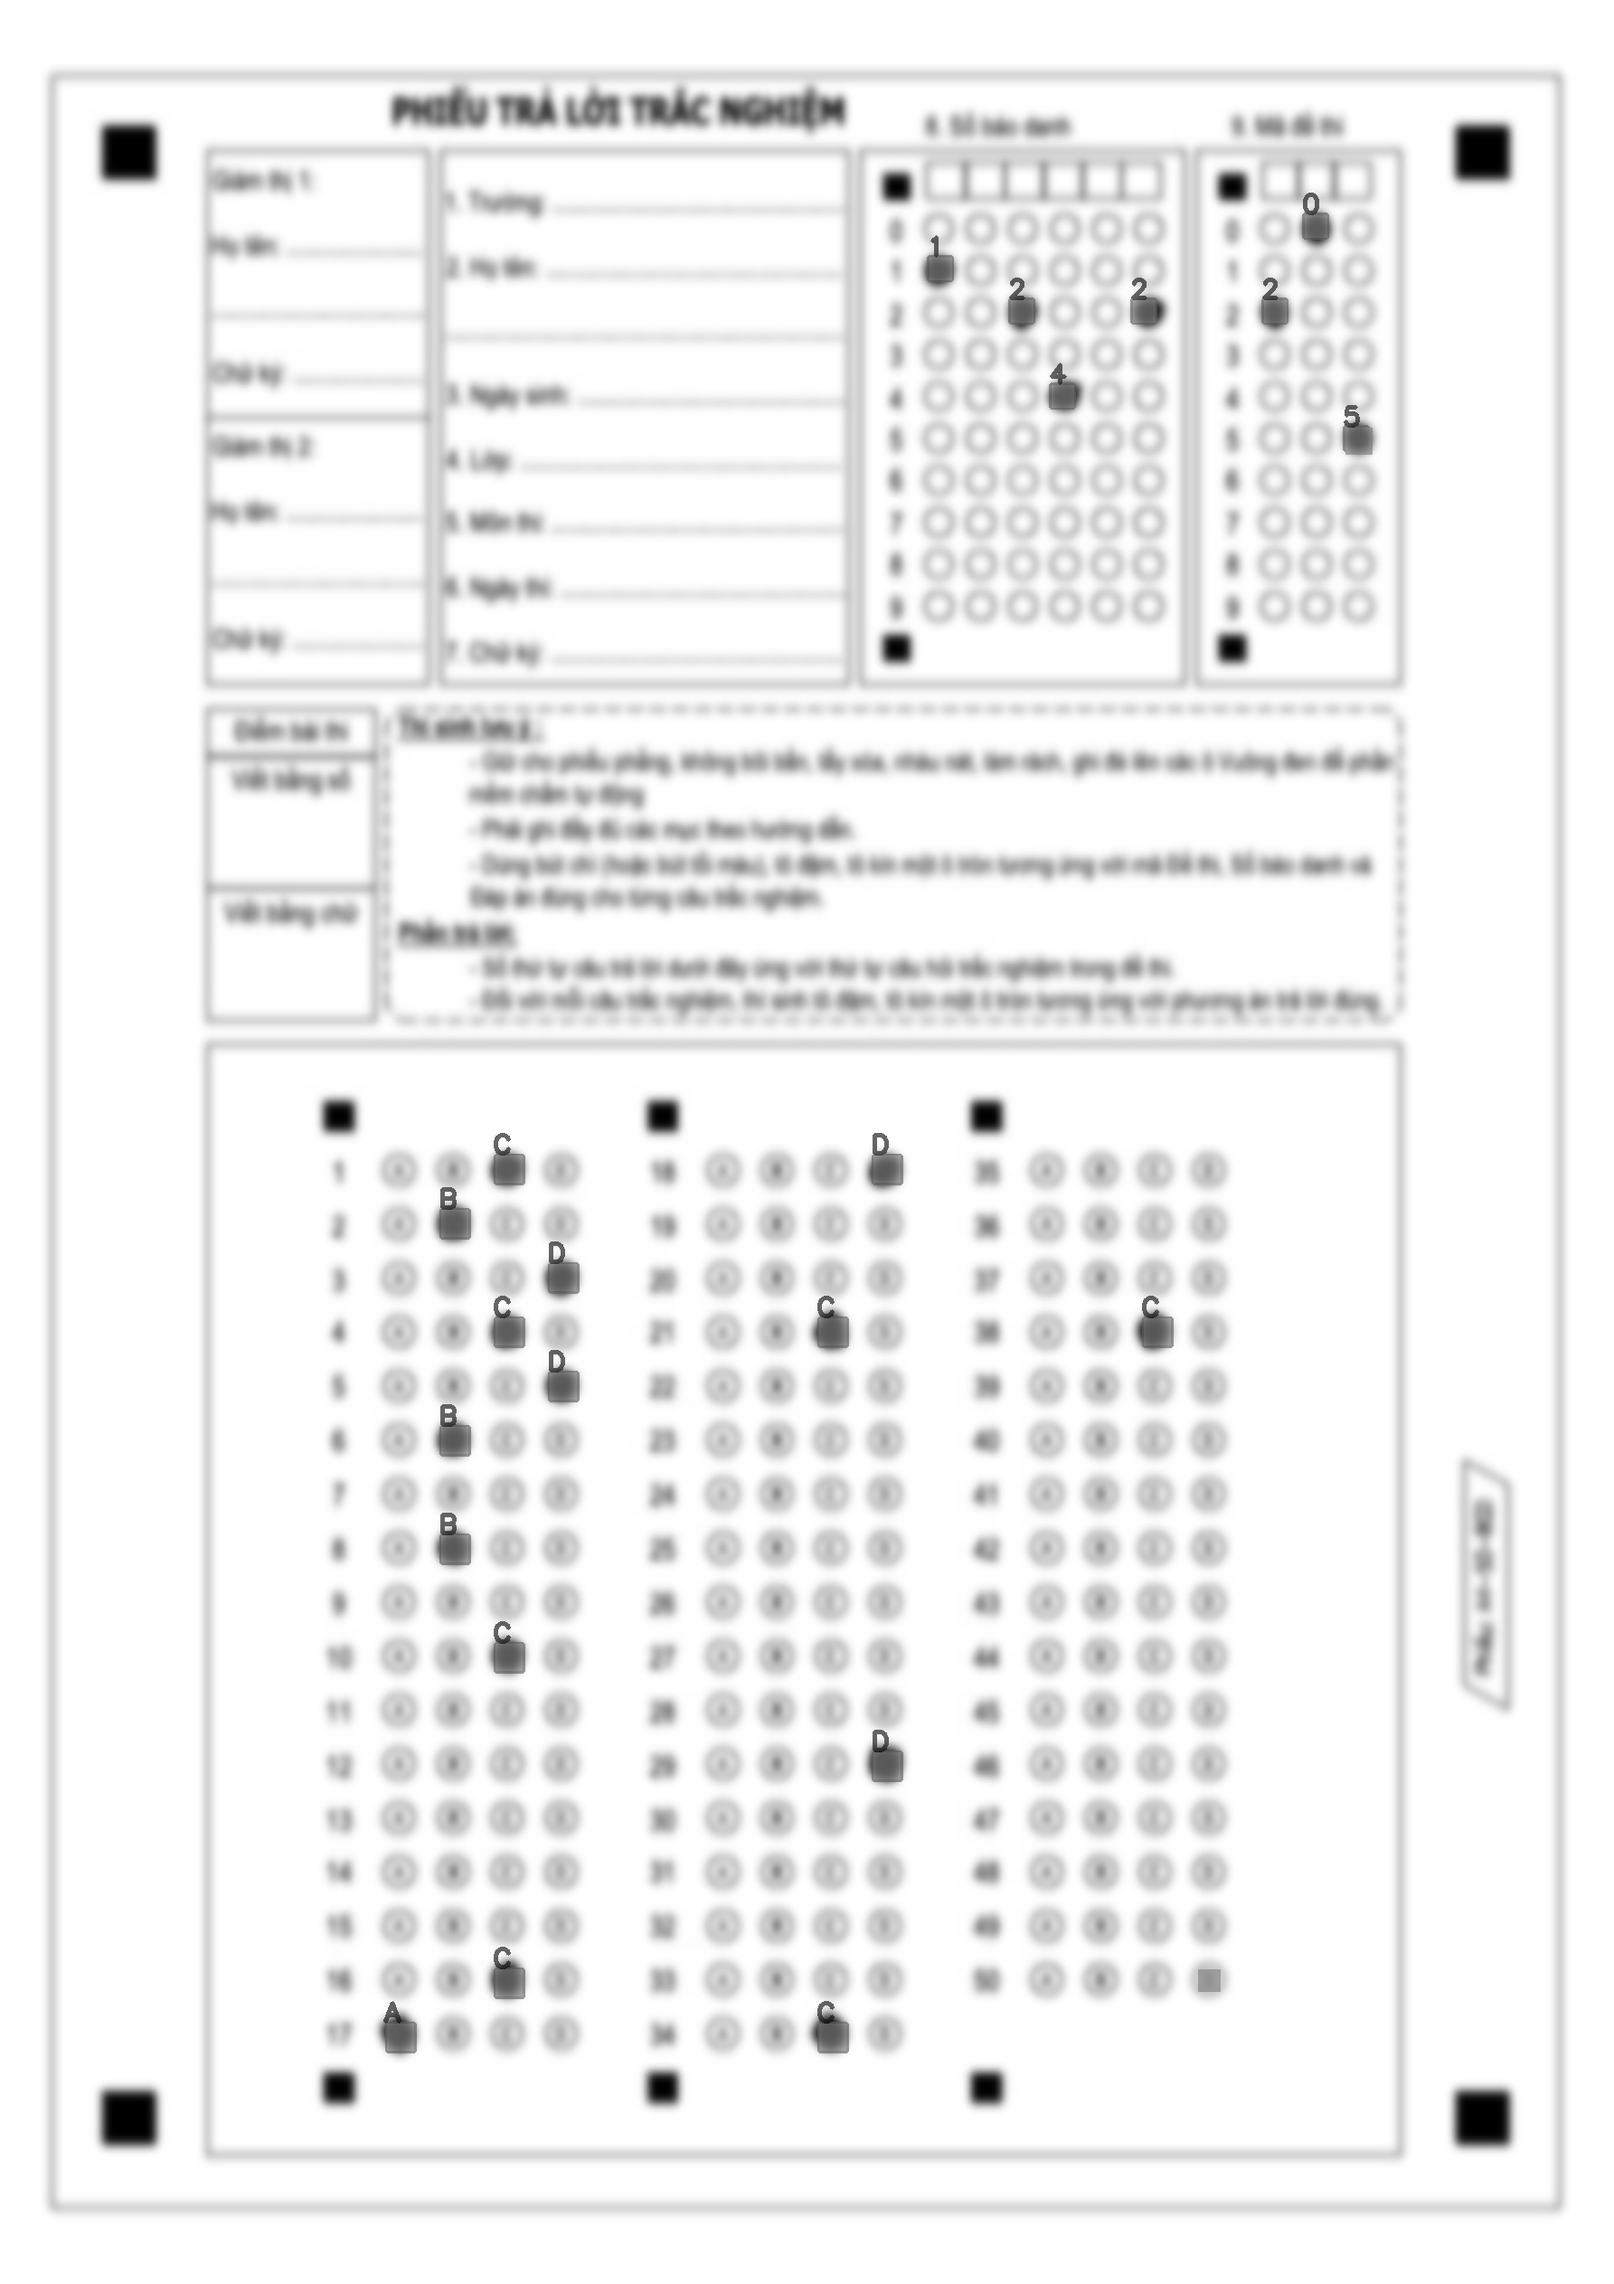
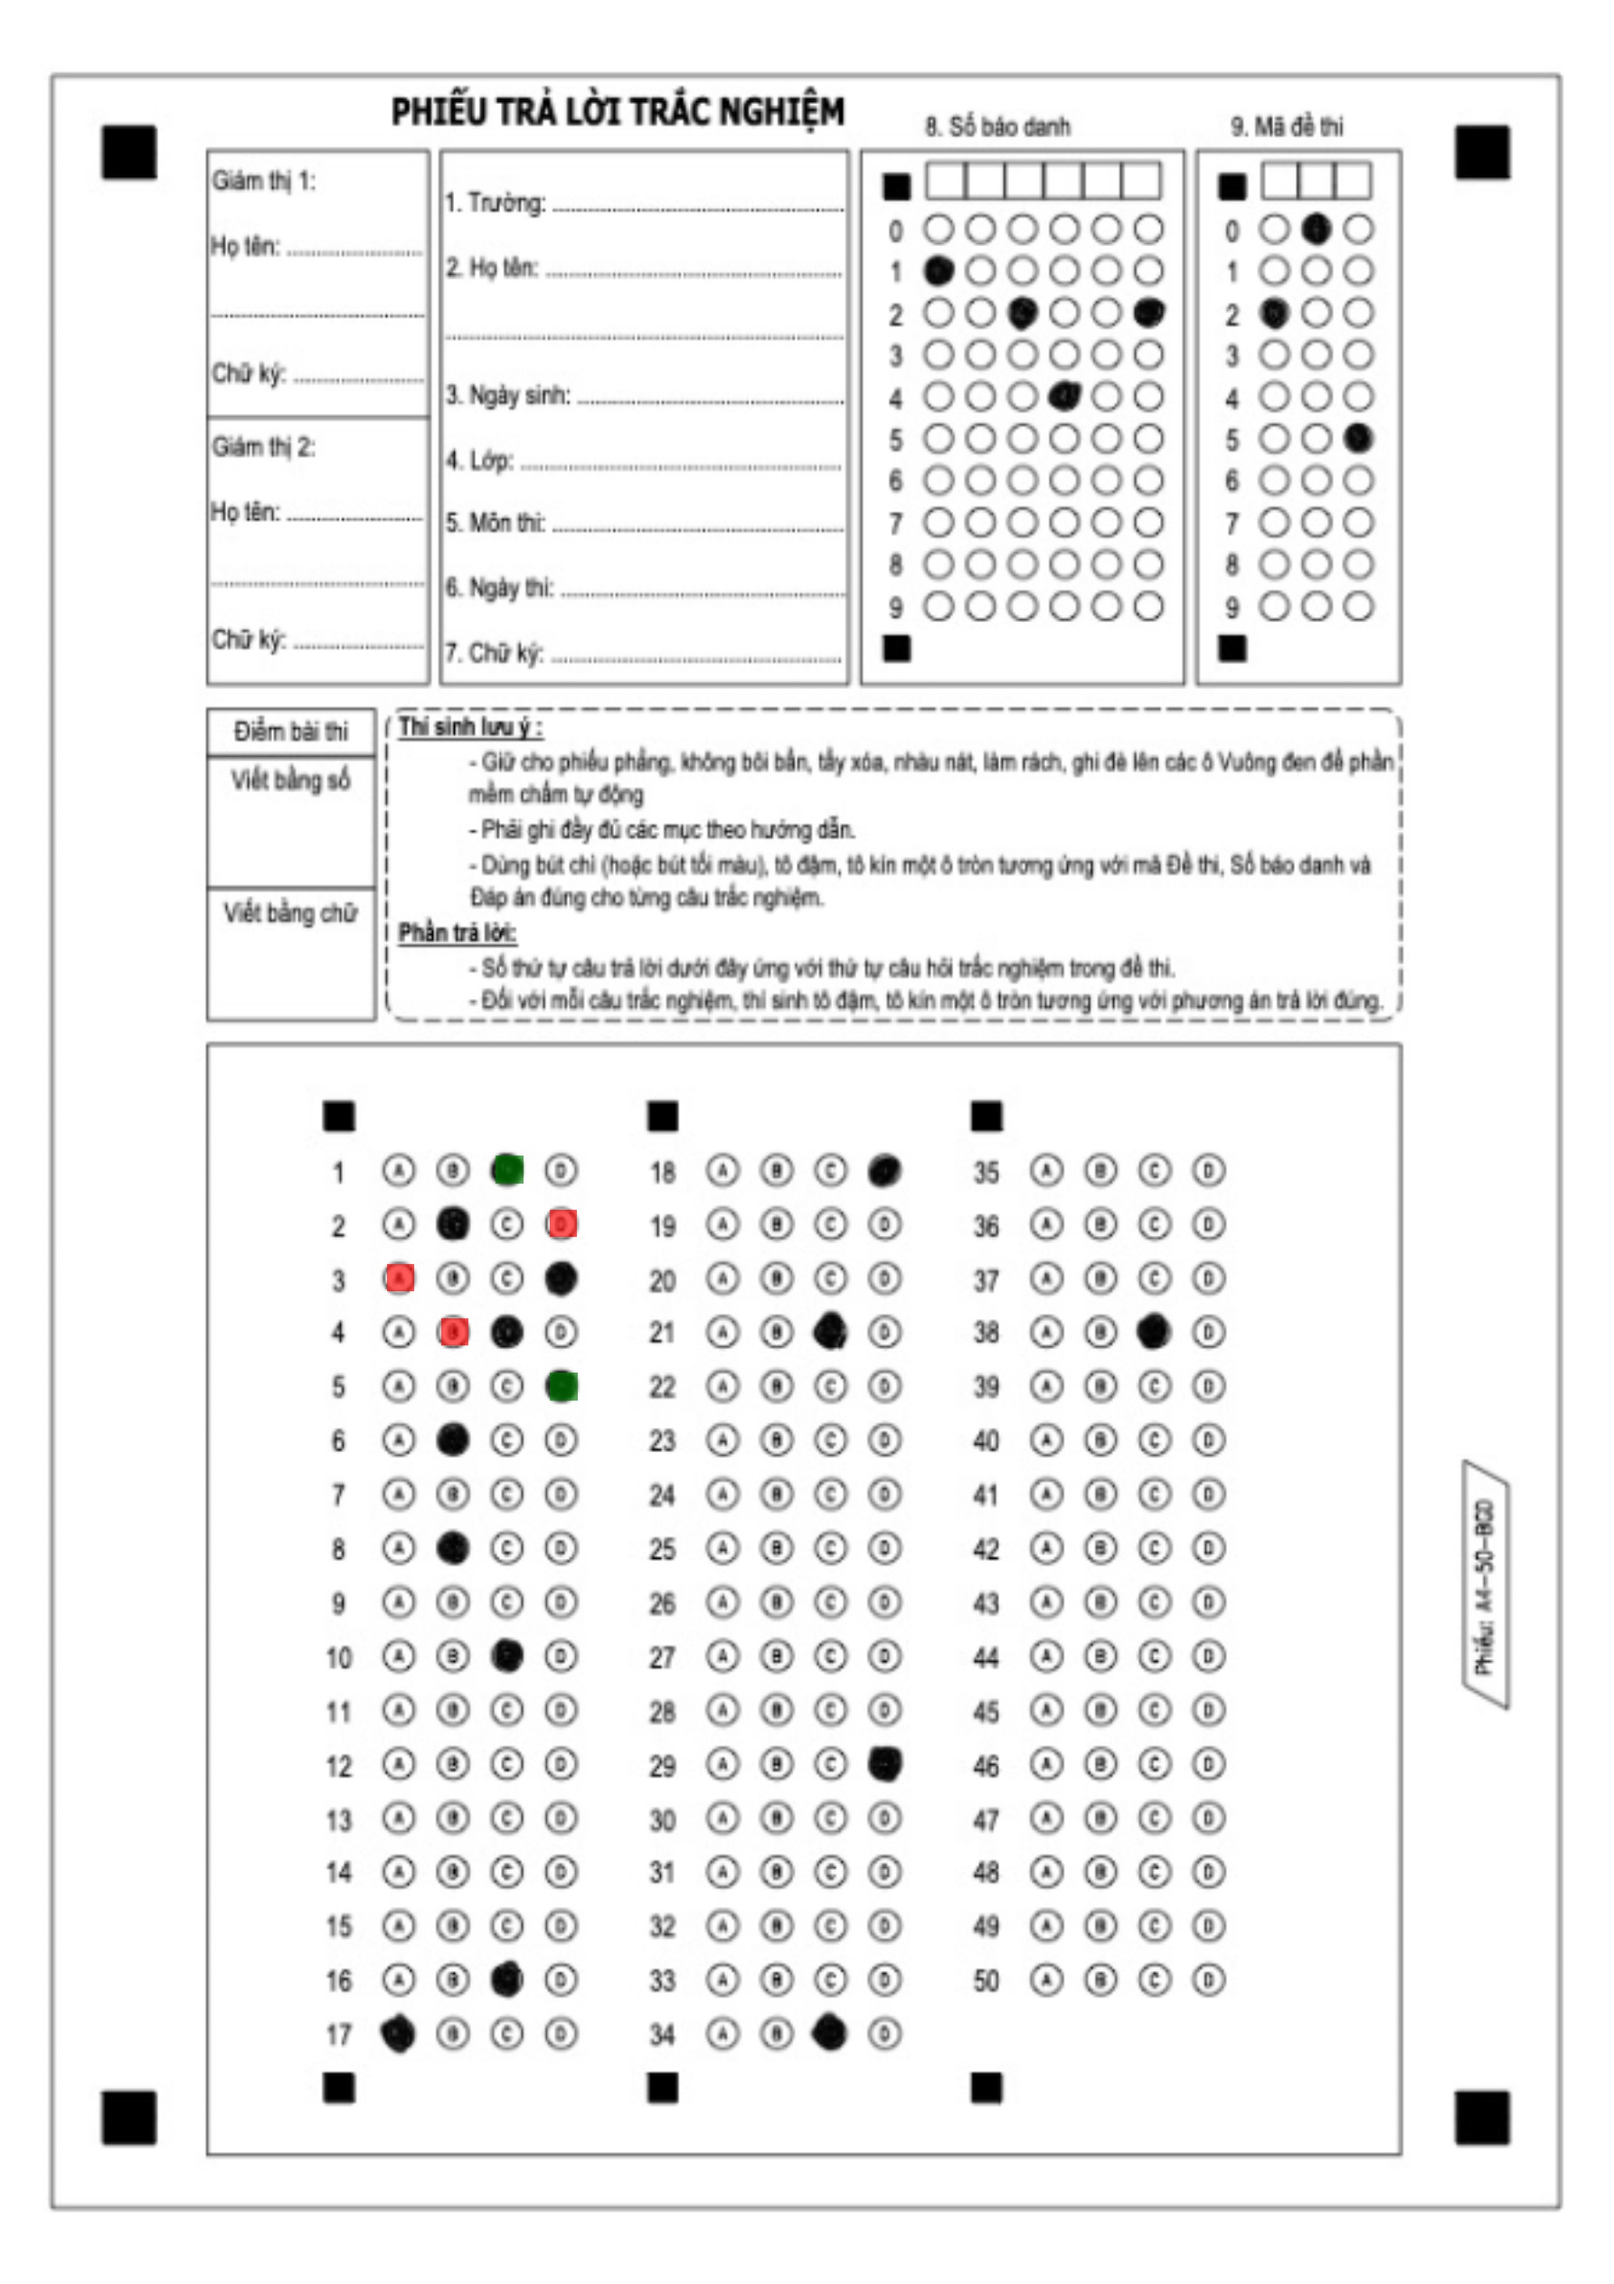
chore: #wip update class-exam template

Changed region(s): [[0.0308, 0.0309, 0.986, 0.9572], [0.5854, 0.8955, 0.6471, 0.9264], [0.0616, 0.8955, 0.0924, 0.9572]]

diff --git a/src/core.py b/src/core.py
@@ -36,7 +36,9 @@ class ImageInstanceOps:
             in_omr = pre_processor.apply_filter(in_omr, file_path)
         return in_omr
 
-    def read_omr_response(self, template, image, name, save_dir=None):
+    def read_omr_response(
+        self, template, image, name, evaluation_config, save_dir=None
+    ):
         config = self.tuning_config
         auto_align = config.alignment_params.auto_align
         try:
@@ -294,9 +296,44 @@ class ImageInstanceOps:
                     # TODO: get rid of total_q_box_no
                     detected_bubbles = []
                     for bubble in field_block_bubbles:
+
                         bubble_is_marked = (
                             per_q_strip_threshold > all_q_vals[total_q_box_no]
                         )
+
+                        matchedQues = next(
+                            (
+                                x
+                                for x in evaluation_config.qna_tuples_in_order
+                                if x[0] == bubble.field_label
+                            ),
+                            None,
+                        )
+
+                        if matchedQues is not None:
+                            if (
+                                bubble.field_value == matchedQues[1]
+                                and bubble_is_marked is not True
+                            ):
+                                cv2.rectangle(
+                                    final_marked,
+                                    (
+                                        int(bubble.x + field_block.shift + box_w / 10),
+                                        int(bubble.y + box_h / 10),
+                                    ),
+                                    (
+                                        int(
+                                            bubble.x
+                                            + field_block.shift
+                                            + box_w
+                                            - box_w / 10
+                                        ),
+                                        int(bubble.y + box_h - box_h / 10),
+                                    ),
+                                    constants.CLR_RED,
+                                    -1,
+                                )
+
                         total_q_box_no += 1
                         if bubble_is_marked:
                             detected_bubbles.append(bubble)
@@ -305,37 +342,21 @@ class ImageInstanceOps:
                                 bubble.y,
                                 bubble.field_value,
                             )
-                            cv2.rectangle(
-                                final_marked,
-                                (int(x + box_w / 12), int(y + box_h / 12)),
-                                (
-                                    int(x + box_w - box_w / 12),
-                                    int(y + box_h - box_h / 12),
-                                ),
-                                constants.CLR_DARK_GRAY,
-                                3,
-                            )
 
-                            cv2.putText(
-                                final_marked,
-                                str(field_value),
-                                (x, y),
-                                cv2.FONT_HERSHEY_SIMPLEX,
-                                constants.TEXT_SIZE,
-                                (20, 20, 10),
-                                int(1 + 3.5 * constants.TEXT_SIZE),
-                            )
-                        else:
-                            cv2.rectangle(
-                                final_marked,
-                                (int(x + box_w / 10), int(y + box_h / 10)),
-                                (
-                                    int(x + box_w - box_w / 10),
-                                    int(y + box_h - box_h / 10),
-                                ),
-                                constants.CLR_GRAY,
-                                -1,
-                            )
+                            if (
+                                matchedQues is not None
+                                and bubble.field_value == matchedQues[1]
+                            ):
+                                cv2.rectangle(
+                                    final_marked,
+                                    (int(x + box_w / 12), int(y + box_h / 12)),
+                                    (
+                                        int(x + box_w - box_w / 12),
+                                        int(y + box_h - box_h / 12),
+                                    ),
+                                    constants.CLR_GREEN,
+                                    -1,
+                                )
 
                     for bubble in detected_bubbles:
                         field_label, field_value = (

diff --git a/src/evaluation.py b/src/evaluation.py
@@ -215,6 +215,12 @@ class EvaluationConfig:
 
                 self.questions_in_order = answer_key["question"].to_list()
                 answers_in_order = answer_key["answer"].to_list()
+
+                self.qna_tuples_in_order = [
+                    (q, answers_in_order[i])
+                    for i, q in enumerate(self.questions_in_order)
+                ]
+
             elif not answer_key_image_path:
                 raise Exception(f"Answer key csv not found at '{csv_path}'")
             else:
@@ -228,7 +234,7 @@ class EvaluationConfig:
                     f"Attempting to generate answer key from image: '{image_path}'"
                 )
                 # TODO: use a common function for below changes?
-                in_omr = cv2.imread(image_path, cv2.IMREAD_GRAYSCALE)
+                in_omr = cv2.imread(image_path, cv2.IMREAD_COLOR)
                 in_omr = template.image_instance_ops.apply_preprocessors(
                     image_path, in_omr, template
                 )
@@ -245,6 +251,7 @@ class EvaluationConfig:
                     template,
                     image=in_omr,
                     name=image_path,
+                    evaluation_config=self,
                     save_dir=None,
                 )
                 omr_response = get_concatenated_response(response_dict, template)

diff --git a/src/entry.py b/src/entry.py
@@ -179,7 +179,7 @@ def show_template_layouts(omr_files, template, tuning_config):
     for file_path in omr_files:
         file_name = file_path.name
         file_path = str(file_path)
-        in_omr = cv2.imread(file_path, cv2.IMREAD_GRAYSCALE)
+        in_omr = cv2.imread(file_path, cv2.IMREAD_COLOR)
         in_omr = template.image_instance_ops.apply_preprocessors(
             file_path, in_omr, template
         )
@@ -210,7 +210,7 @@ def process_files(
         files_counter += 1
         file_name = file_path.name
 
-        in_omr = cv2.imread(str(file_path), cv2.IMREAD_GRAYSCALE)
+        in_omr = cv2.imread(str(file_path), cv2.IMREAD_COLOR)
 
         logger.info("")
         logger.info(
@@ -250,6 +250,7 @@ def process_files(
             continue
 
         # uniquify
+
         file_id = str(file_name)
         save_dir = outputs_namespace.paths.save_marked_dir
         (
@@ -258,7 +259,11 @@ def process_files(
             multi_marked,
             _,
         ) = template.image_instance_ops.read_omr_response(
-            template, image=in_omr, name=file_id, save_dir=save_dir
+            template,
+            image=in_omr,
+            name=file_id,
+            evaluation_config=evaluation_config,
+            save_dir=save_dir,
         )
 
         # TODO: move inner try catch here

diff --git a/src/constants.py b/src/constants.py
@@ -40,6 +40,8 @@ CLR_BLACK = (50, 150, 150)
 CLR_WHITE = (250, 250, 250)
 CLR_GRAY = (130, 130, 130)
 CLR_DARK_GRAY = (100, 100, 100)
+CLR_GREEN = (0, 128, 0)
+CLR_RED = (0, 0, 255)
 
 # TODO: move to config.json
 GLOBAL_PAGE_THRESHOLD_WHITE = 200

diff --git a/main_test.py b/main_test.py
@@ -8,4 +8,4 @@ from src.logger import logger
 
 if __name__ == "__main__":
     sys.tracebacklimit = 0
-    entry_point(Path("templates/class-exam"))
+    entry_point(Path("templates/class-exam-test"))

diff --git a/src/processors/FeatureBasedAlignment.py b/src/processors/FeatureBasedAlignment.py
@@ -2,6 +2,7 @@
 Image based feature alignment
 Credits: https://www.learnopencv.com/image-alignment-feature-based-using-opencv-c-python/
 """
+
 import cv2
 import numpy as np
 
